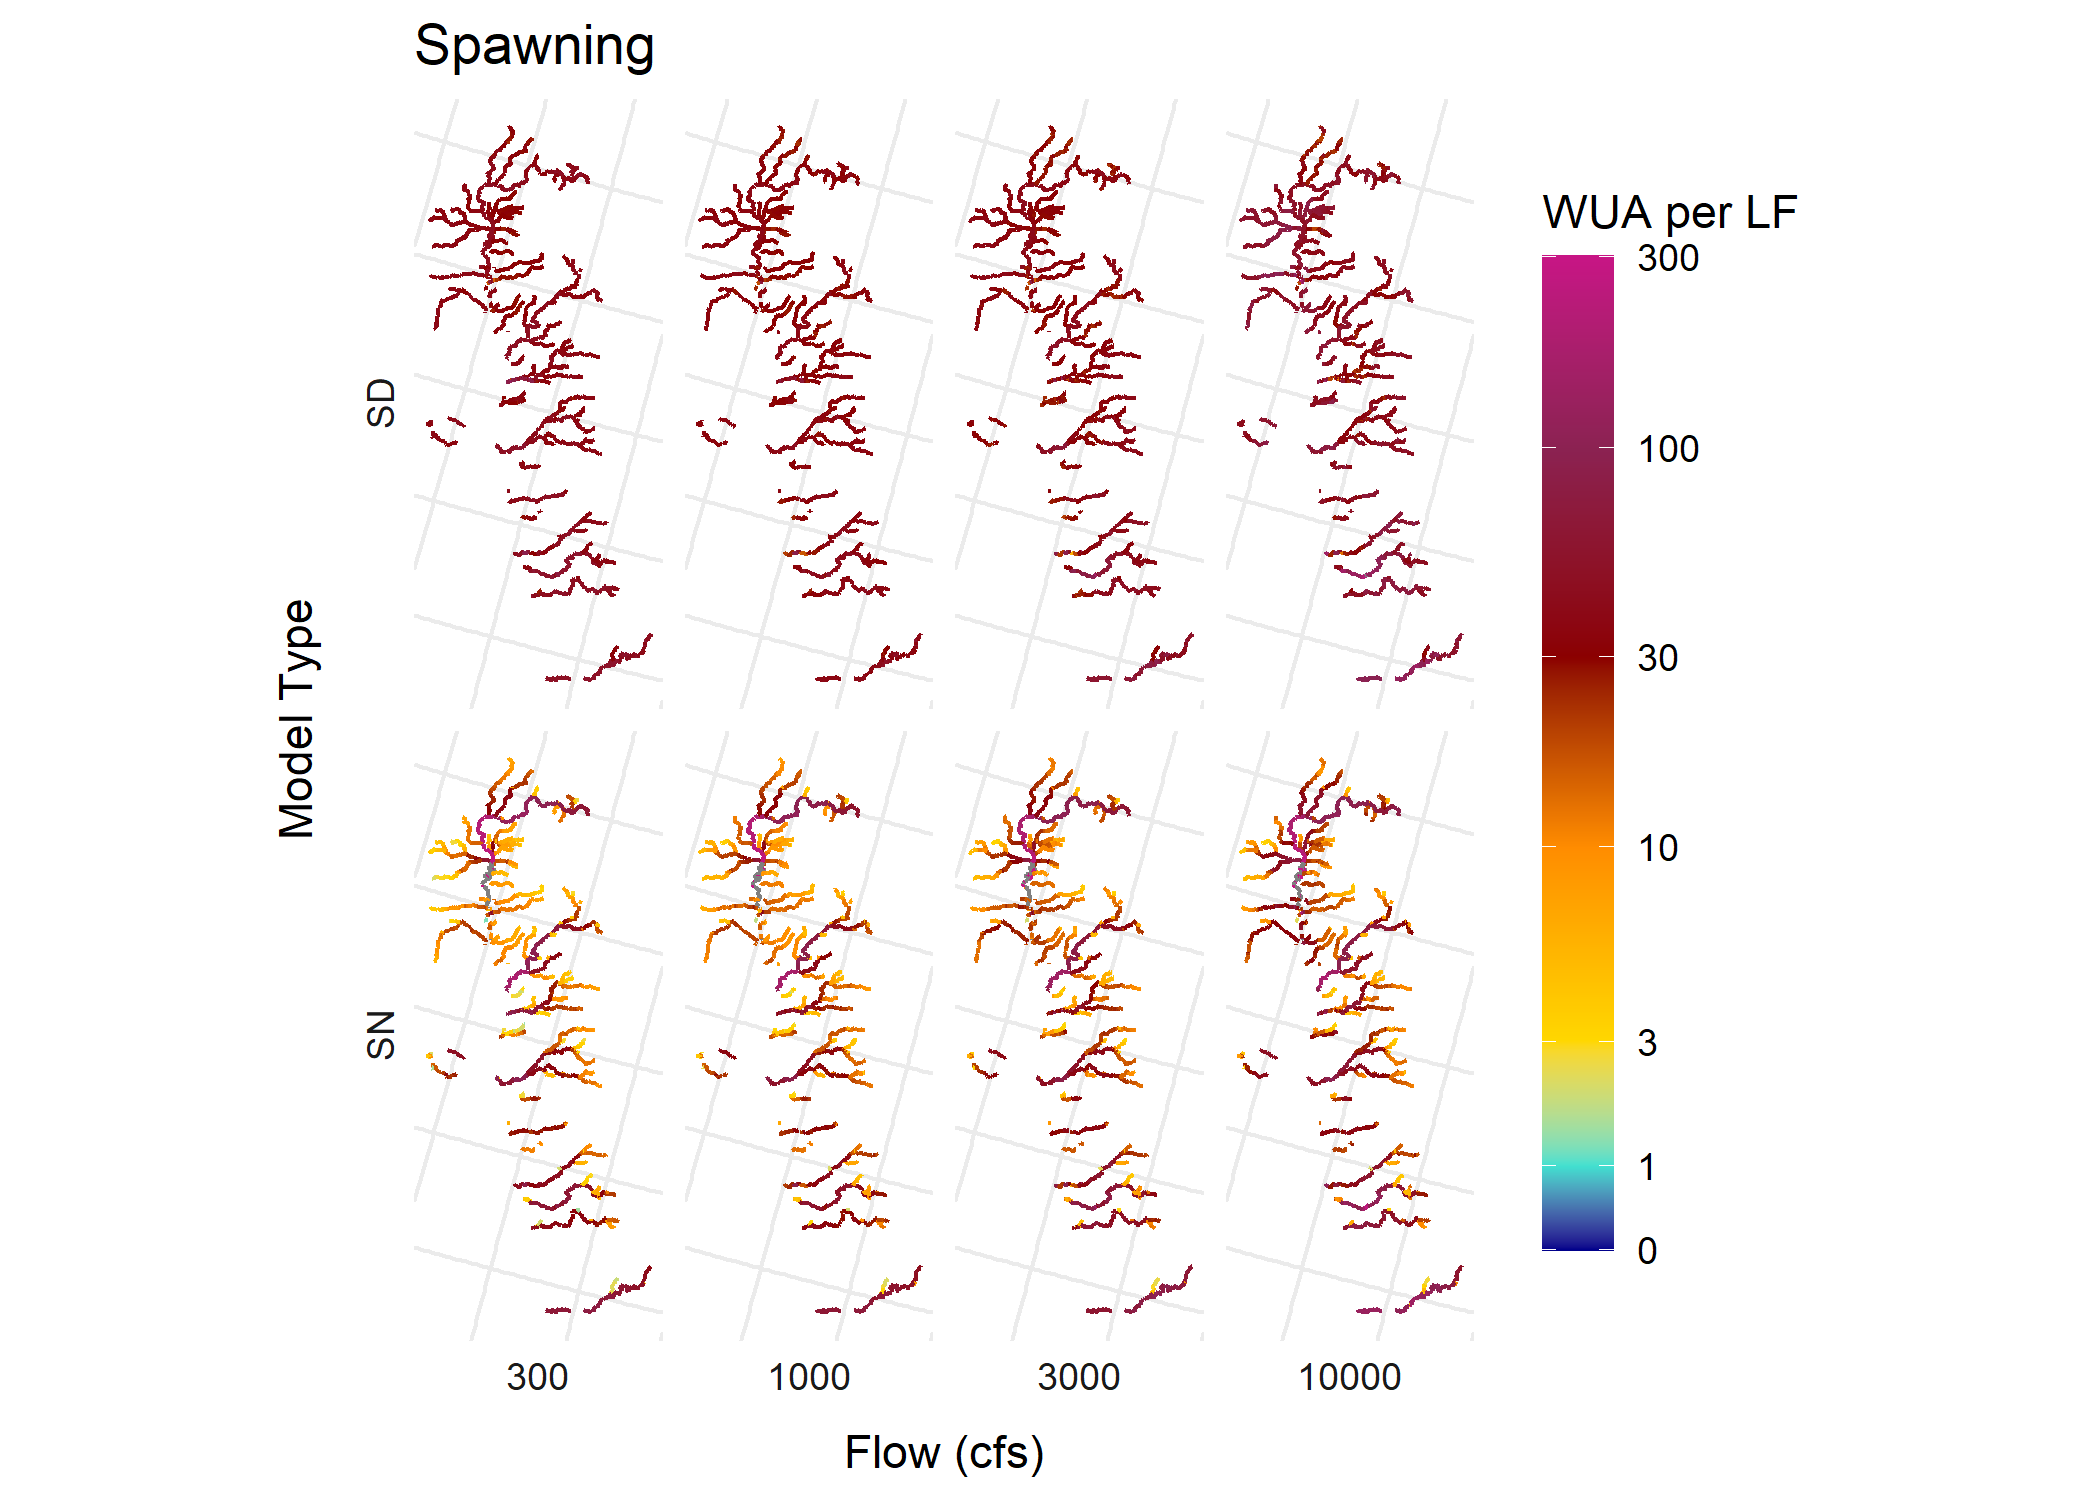
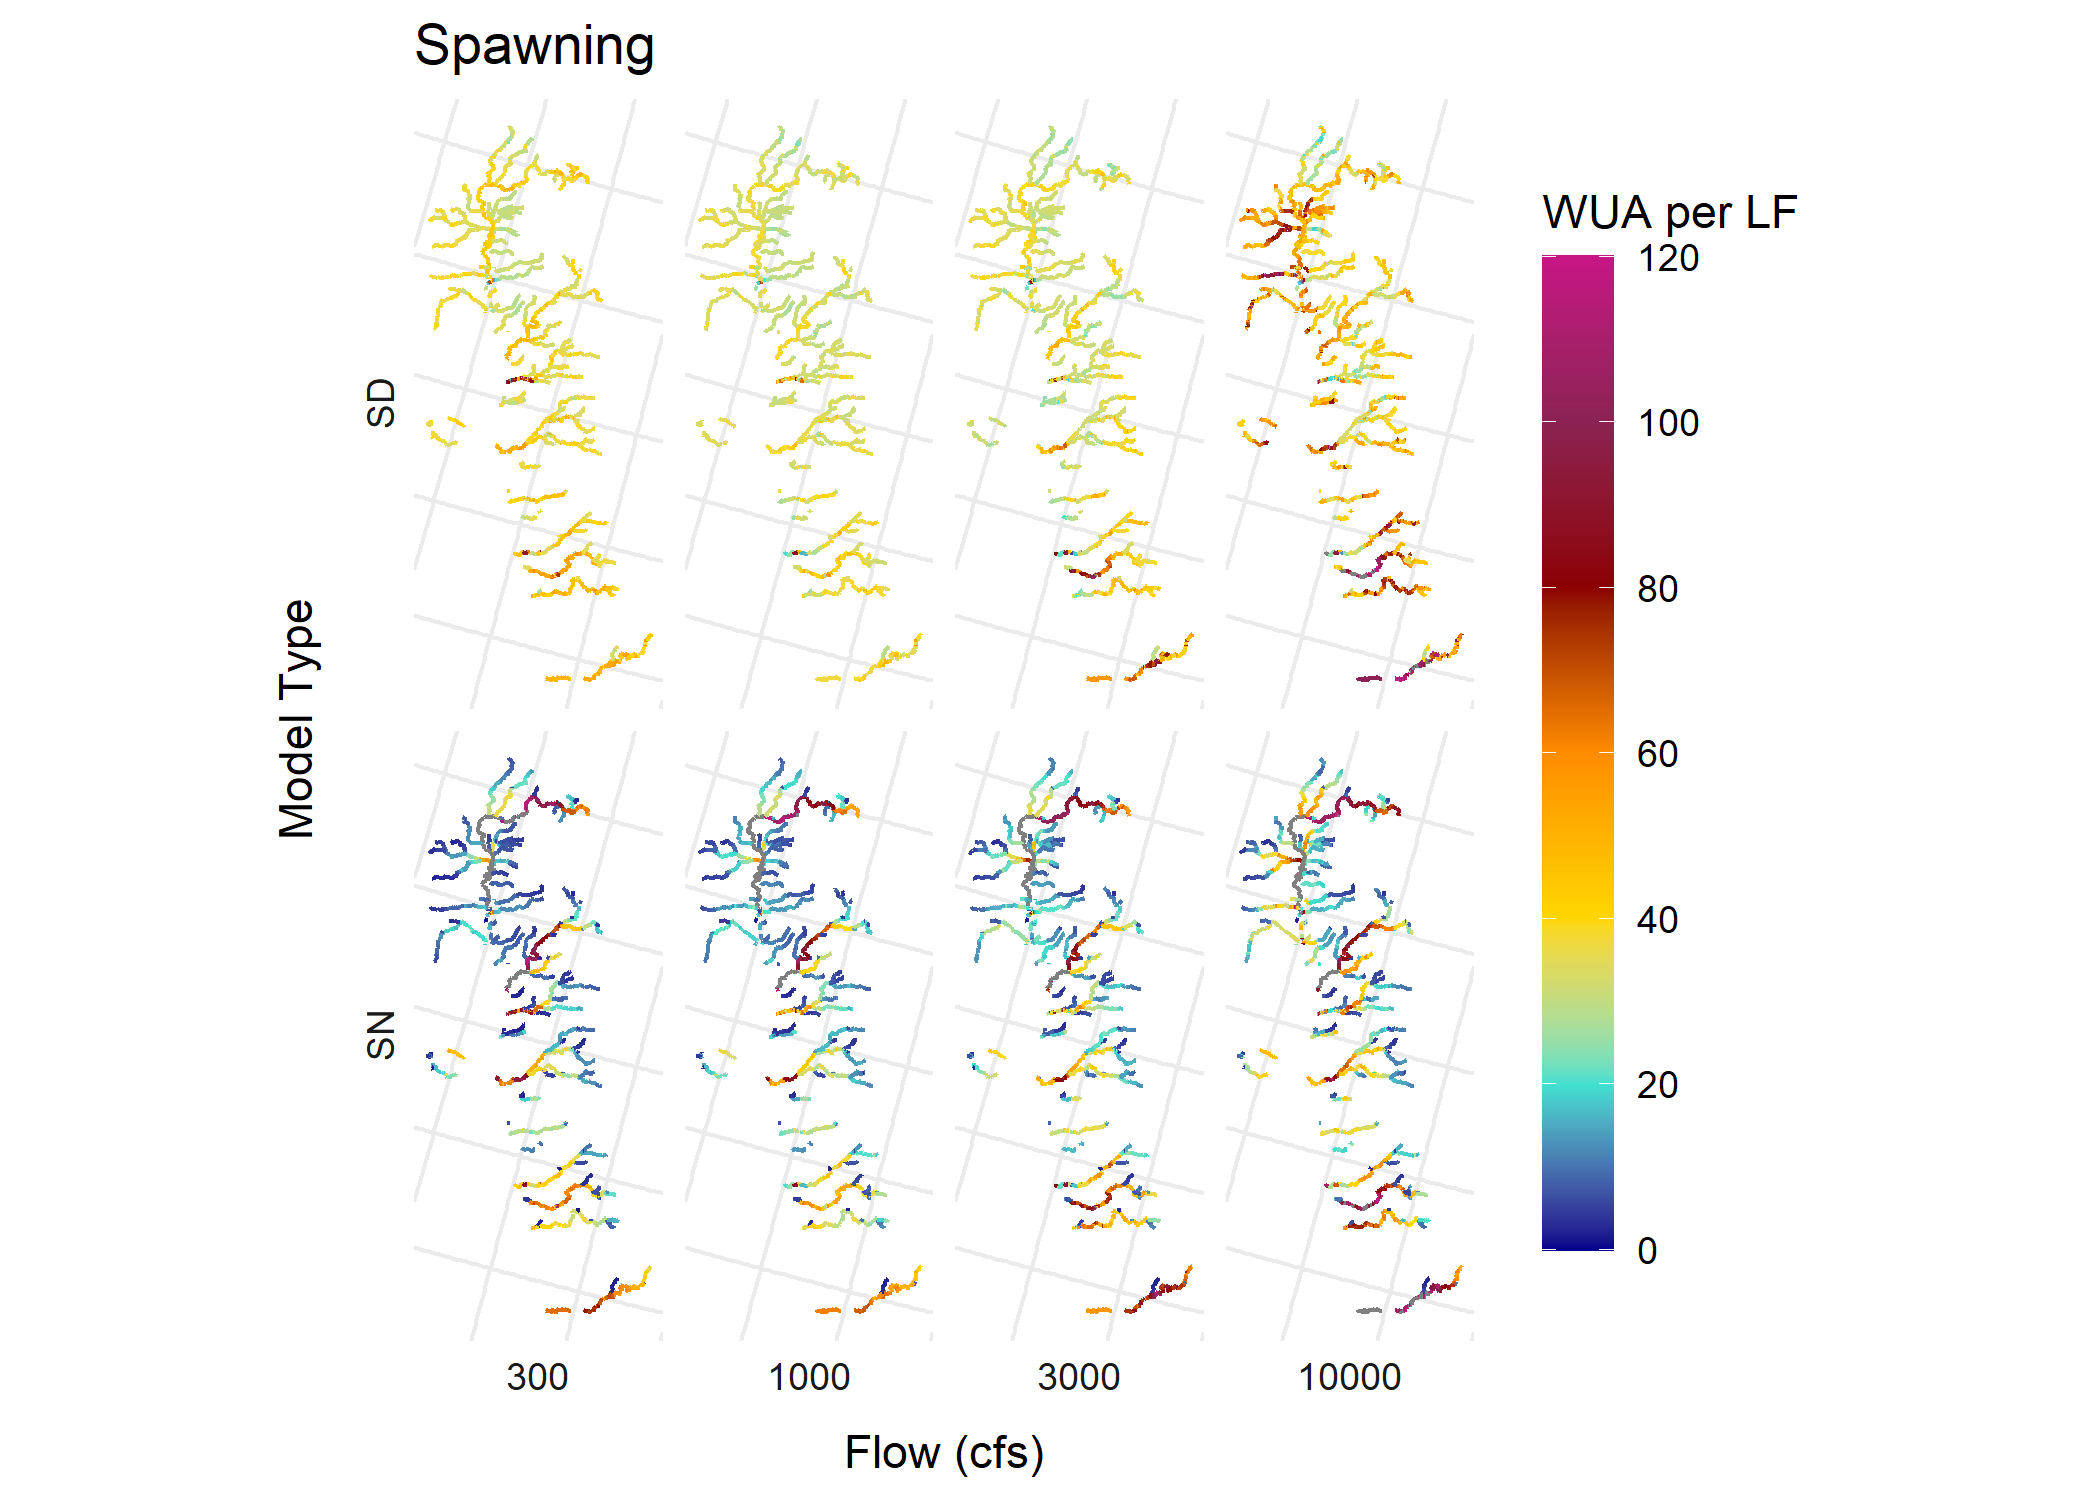
switching spawning plot to linear color scale, keeping log scale for rearing

diff --git a/data-raw/scripts/model-type-comparison.md b/data-raw/scripts/model-type-comparison.md
@@ -253,10 +253,10 @@ habistat::flowline_geom_proj |>
   facet_grid(rows = vars(model_name), cols = vars(flow_cfs), switch = "both") + 
   geom_sf(aes(color = wua_per_lf_pred)) + 
   scale_color_gradientn(name = "WUA per LF",
-                        limits = c(0, 300),
-                        breaks = c(0, 1, 3, 10, 30, 100, 300), 
-                        trans = habistat::trans_semiIHS,
-                        values = scales::rescale(habistat::semiIHS(c(0, 1, 3, 10, 30, 100, 300))),
+                        limits = c(0, 120),
+                        breaks = c(0, 20, 40, 60, 80, 100, 120), 
+                        #trans = habistat::trans_semiIHS,
+                        #values = scales::rescale(habistat::semiIHS(c(0, 1, 3, 10, 30, 100, 300))),
                         colors = c("darkblue", "turquoise", "gold", "darkorange", "darkred", "violetred4", "mediumvioletred")) + 
   theme(legend.key.height = unit(48, "pt"),
         axis.text = element_blank()) + 
